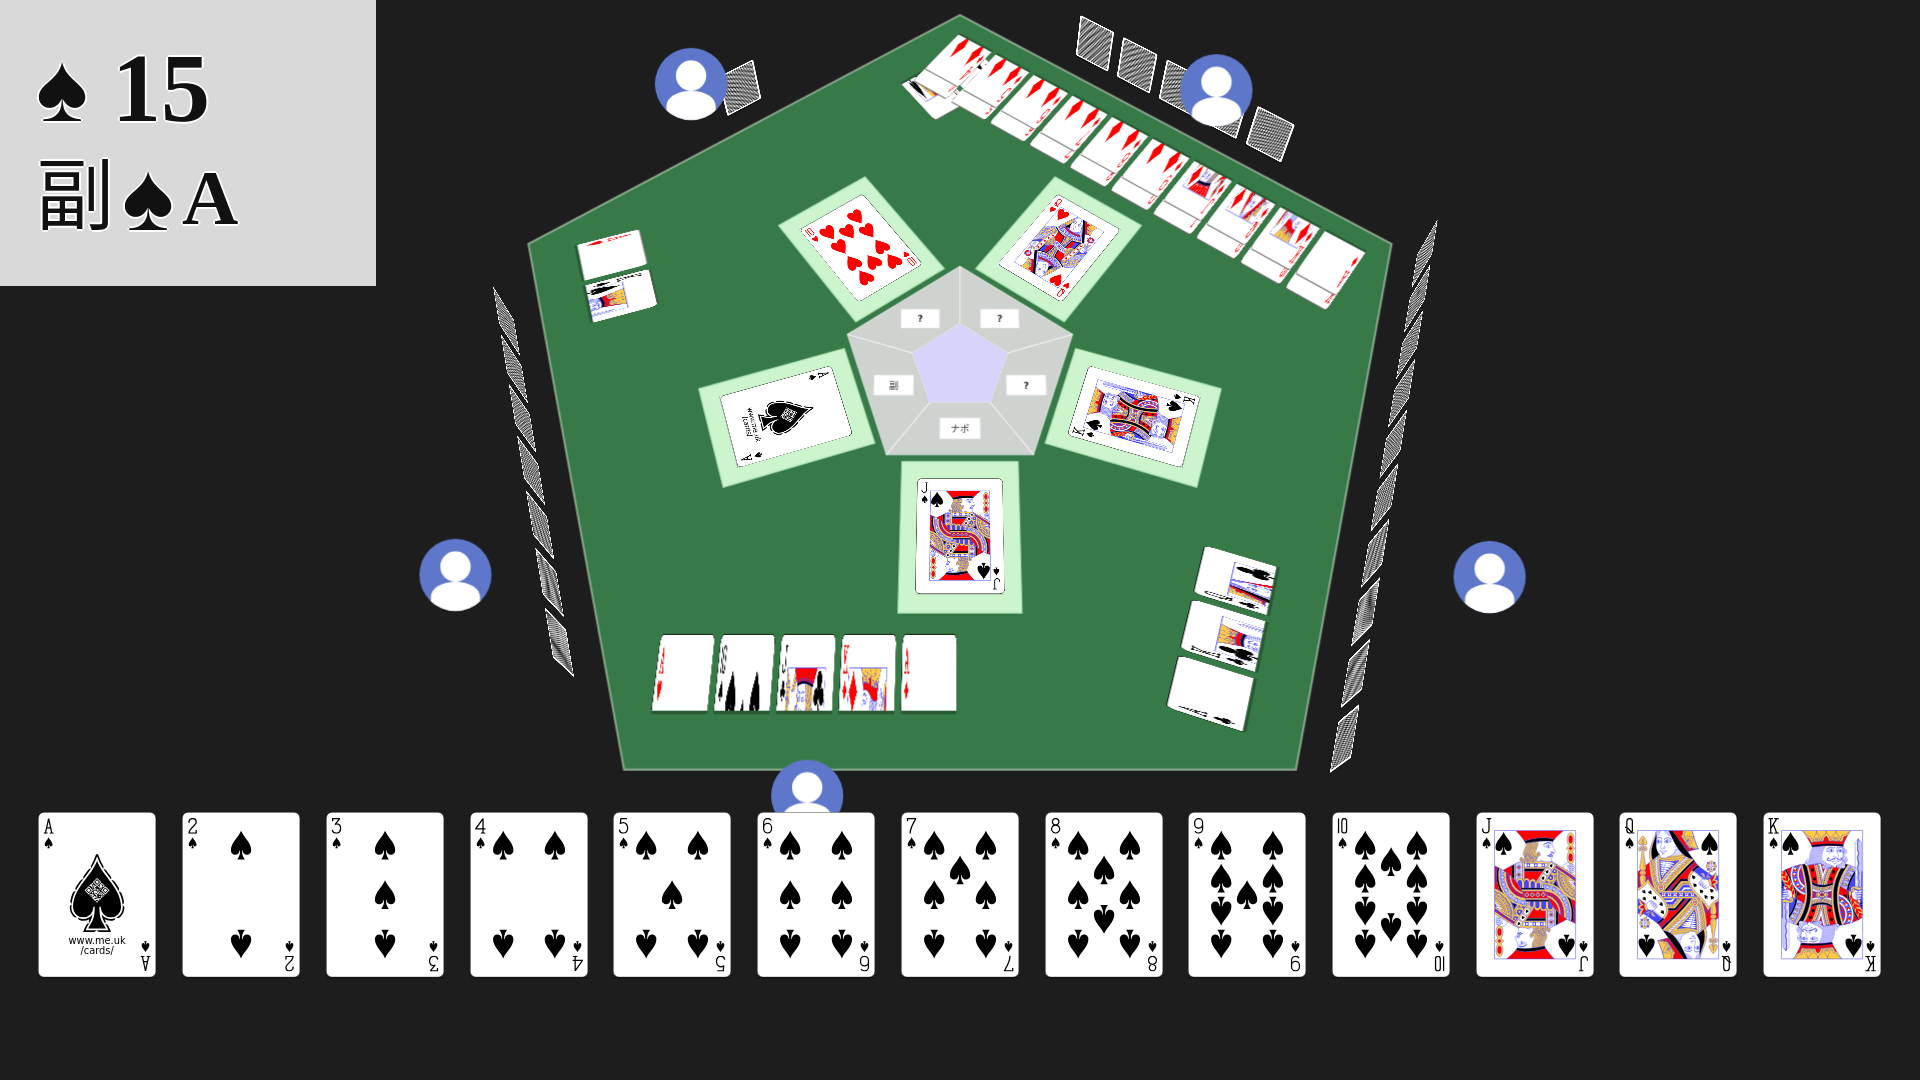
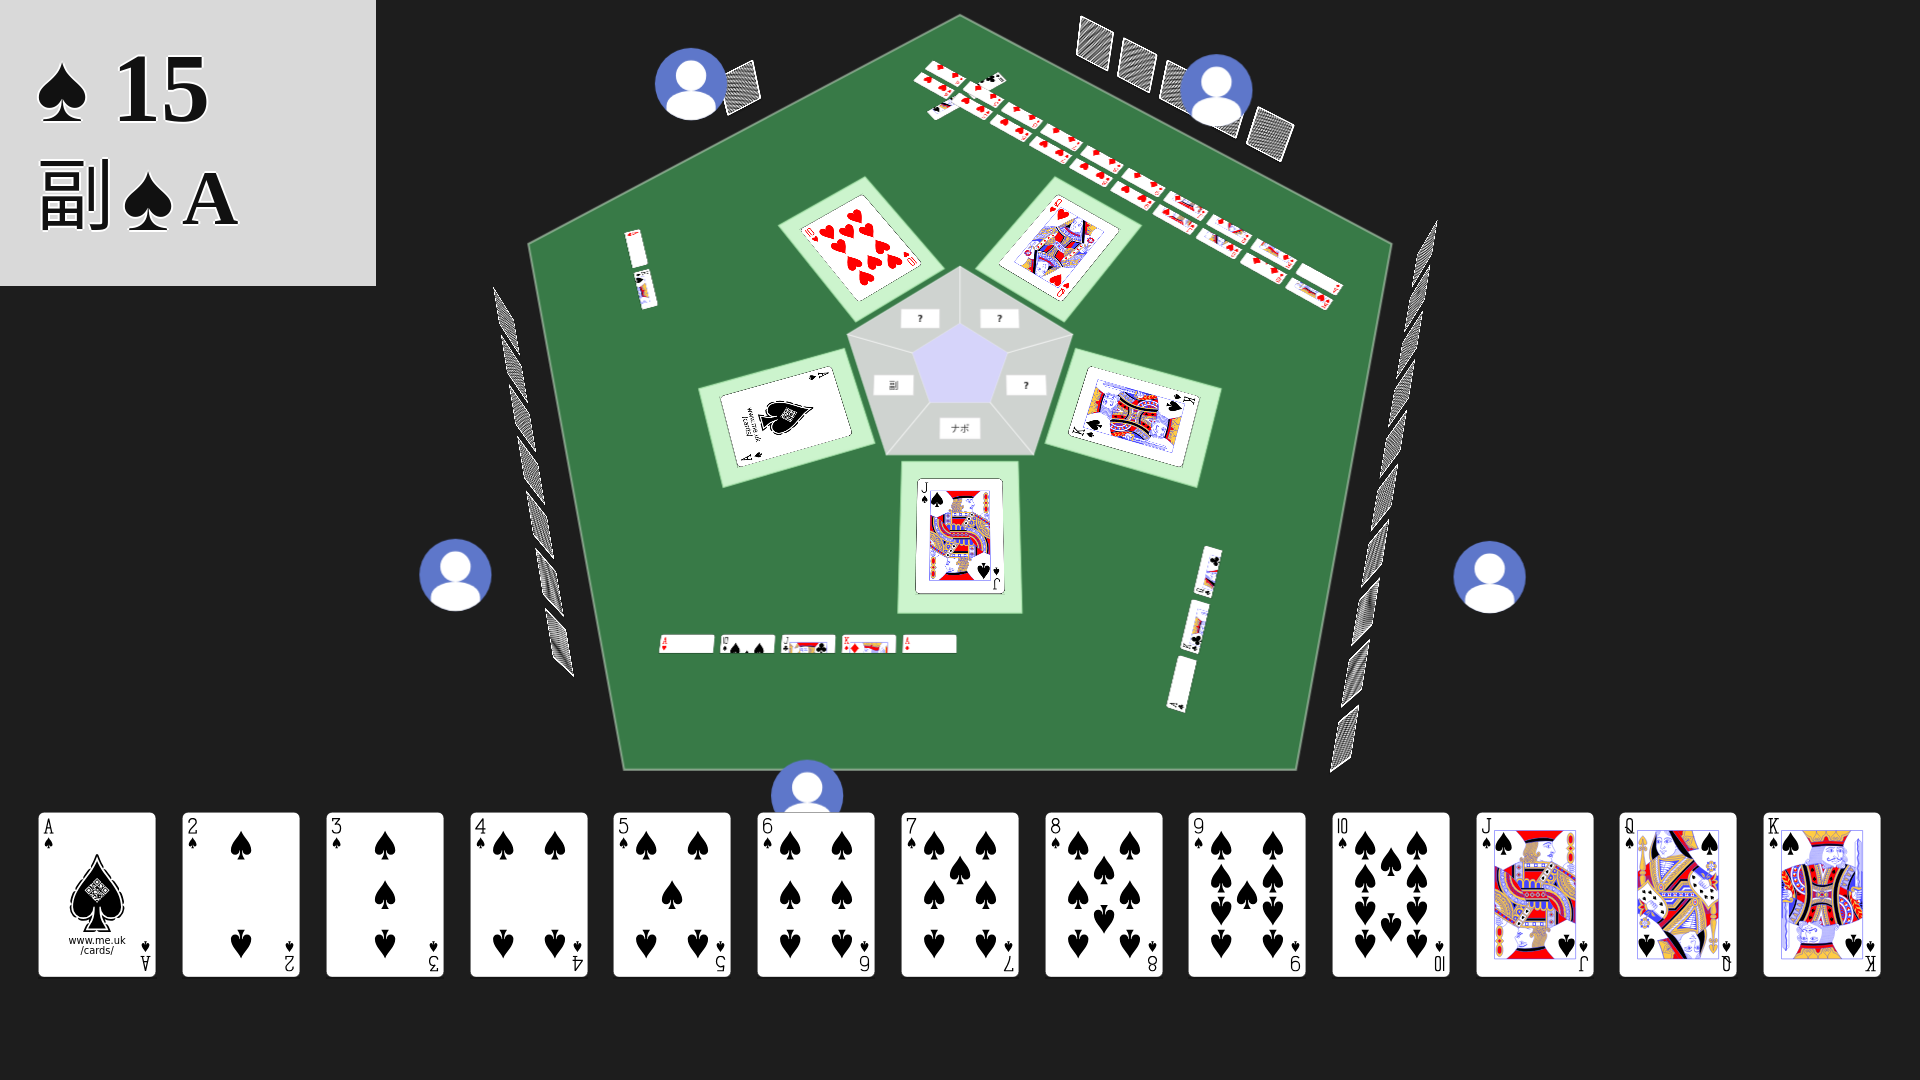
Fix projected river slice transform

diff --git a/apps/web/src/TableDesignMock.tsx b/apps/web/src/TableDesignMock.tsx
@@ -703,9 +703,9 @@ function ProjectedPointRiverCards({ layout, seat }: { layout: TableDesignMockLay
         const corners = projectTableCard(
           {
             direction: river.direction,
-            height: river.cardSize.height,
+            height: river.visibleCardSize.height,
             normal: river.normal,
-            width: river.cardSize.width,
+            width: river.visibleCardSize.width,
             x: toLayoutPrecision(river.x + river.direction.x * placement.x + river.normal.x * placement.y),
             y: toLayoutPrecision(river.y + river.direction.y * placement.x + river.normal.y * placement.y)
           },
